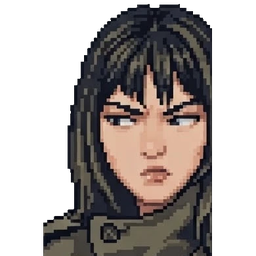
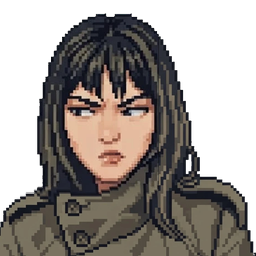
Лика: тема про рыцаря по смыслу владельца, новая тема после Илиа, без улыбок невпопад; лица настроений подогнаны под оригинал; напоминалка владельцу
Claude-Session: https://claude.ai/code/session_01NZaKJV7VXAQHZfGwN3MbH5

diff --git a/src/story/dialogues.js b/src/story/dialogues.js
@@ -124,7 +124,7 @@ export const SHOPS = {
     // Темы разговора: строки по очереди; knight: true — реплика Найта, mood — лицо Лики. Смысл — владельца, формулировки — черновик.
     talk: [
       { topic: 'Кто ты?', lines: [
-        { mood: 'happy', text: '[черновик] Лика. Странствующая торговка — и коллекционер, если хочешь красиво.' },
+        { text: '[черновик] Лика. Странствующая торговка — и коллекционер, если хочешь красиво.' },
         { mood: 'sly', text: '[черновик] Брошенные места, забытые вещи, интересные артефакты — вот моё. Кто-то копит золото, а я — истории.' },
       ] },
       { topic: 'Так ты мародёрка?', lines: [
@@ -135,7 +135,7 @@ export const SHOPS = {
       { topic: 'Об этом замке', lines: [
         { mood: 'serious', text: 'Старый заброшенный замок. Здесь никто не жил больше двухсот лет.' },
         { mood: 'sly', text: '[черновик] Ну, из живых. Неживых тут, пожалуй, побольше — скелеты прямо в очередь выстраиваются.' },
-        { mood: 'happy', text: 'Перекантоваться можно в деревушке неподалёку. А монстров в замке много.' },
+        { text: 'Перекантоваться можно в деревушке неподалёку. А монстров в замке много.' },
         { mood: 'sly', text: 'Хочешь узнать о них больше — купи у меня журнал. Я его, между прочим, кропотливо составляла.' },
       ] },
       { topic: 'О портале', lines: [
@@ -150,10 +150,19 @@ export const SHOPS = {
         { mood: 'sly', text: 'Это я слышала от рыцаря, который здесь бывал. Только выглядел он побогаче, и доспехи у него сияли поярче твоих...' },
         { mood: 'worried', text: '[черновик] Ой. Прости, я не имела в виду, что ты плохо выглядишь! Просто доспехи у тебя... повидавшие. Это даже солидно.' },
       ] },
+      // смысл владельца: если тот рыцарь победил колдуна и ушёл — Найт тоже сможет спокойно покинуть замок;
+      // Лика-то уйдёт когда угодно, а Найт — нет; извиняется: не хвастается, просто так вышло
       { topic: 'Что стало с тем рыцарем?', lines: [
         { mood: 'serious', text: 'Вероятно, он уже ушёл. Или погиб от рук этого мага.' },
-        { mood: 'sly', text: 'Если первое — значит, и я могу спокойно уйти из замка. Если второе — тебе не повезло, и следующий на очереди, видимо, ты. Если только не захочешь остаться здесь жить.' },
-        { mood: 'worried', text: '[черновик] Прости. Я не хотела смеяться над чужим горем. Я не это имела в виду.' },
+        { mood: 'serious', text: '[черновик] Если он победил колдуна и ушёл — значит, и ты сможешь спокойно покинуть замок. А если погиб… тогда следующий на очереди, видимо, ты.' },
+        { mood: 'sly', text: '[черновик] Я-то отсюда уйду, когда захочу. А вот ты — нет.' },
+        { mood: 'worried', text: '[черновик] Ой. Прости, я не хвастаюсь. Просто… так вышло.' },
+      ] },
+      // появляется после боя с Илиа (решение владельца)
+      { topic: 'Я встретил рыцаря с рапирой', need: 'done_ilia', lines: [
+        { knight: true, text: '[черновик] Внизу на меня напал рыцарь с рапирой. Сильный противник. Бросился первым — я даже не успел объяснить, что я человек.' },
+        { mood: 'surprised', text: '[черновик] Правда? Ты пережил битву с ним?' },
+        { mood: 'sly', text: '[черновик] Хм. Может, у тебя и правда есть шансы.' },
       ] },
       { topic: 'Скажи, как ты сюда попала', lines: [
         { knight: true, text: 'И всё-таки — как ты сюда попала?' },
@@ -167,7 +176,8 @@ export const SHOPS = {
     soon: '[черновик] Это пока не продаётся.',
     bye: '[черновик] Береги себя, рыцарь!',
     // выражение лица Лики (assets/portraits/lika-*.png): happy, sly, surprised, sulky, serious, worried, angry; без — обычное
-    moods: { hello: 'happy', item: 'sly', bought: 'happy', poor: 'sulky', soon: 'sly' },
+    // широкая улыбка (happy) — только на покупке: в остальном владелец просил без улыбок невпопад
+    moods: { hello: 'sly', bought: 'happy', poor: 'sulky', soon: 'sly' },
   },
 };
 

diff --git a/src/main.js b/src/main.js
@@ -1842,7 +1842,7 @@ function nextShopLine() {
   const line = sh.queue.shift();
   if (!line) return;
   const text = typeof line === 'string' ? line : line.text;
-  if (line.knight) shopSay(`Найт: ${text}`, sh.mood);
+  if (line.knight) shopSay(`Найт: ${text}`, line.mood);  // Лика слушает с обычным лицом
   else shopSay(text, line.mood);
   renderShop();
 }
@@ -1883,7 +1883,8 @@ function shopOptions() {
   if (sh.view === 'talk') {
     // идёт разговор по теме — только «Дальше», пока не кончатся реплики
     if (sh.queue?.length) return [{ label: 'Дальше ▸', go: nextShopLine }];
-    return [...d.talk.map(t => ({ label: t.topic, go: () => { sh.queue = t.lines.slice(); nextShopLine(); } })), back];
+    // need — тема появляется после события (флаг), например после боя с Илиа
+    return [...d.talk.filter(t => !t.need || game.flags[t.need]).map(t => ({ label: t.topic, go: () => { sh.queue = t.lines.slice(); nextShopLine(); } })), back];
   }
   return [
     { label: 'Купить', go: () => shopView('buy') },

diff --git a/tools/lika_moods.py b/tools/lika_moods.py
@@ -1,0 +1,57 @@
+# Подогнать настроения Лики под оригинал: размер и положение лица, тон кожи.
+# Исходные настроения (кадры с листа) лежат в git-истории — до v0.32; этот скрипт уже применён, повторно на готовые файлы не запускать.
+import sys, numpy as np
+from PIL import Image
+P = '/home/user/knight-night/assets/portraits/'
+OUT = sys.argv[1]  # куда сохранить; исходники настроений — из git-истории (до v0.32), оригинал — lika.png
+def skin_mask(a):
+    r, g, b, al = [a[..., i].astype(int) for i in range(4)]
+    return (al > 200) & (r > 140) & (r > g + 12) & (g > b) & (r - b > 40)
+def bbox(m):
+    ys, xs = np.nonzero(m)
+    # отсечь выбросы: 2-й и 98-й перцентили
+    return np.percentile(xs, 2), np.percentile(xs, 98), np.percentile(ys, 2), np.percentile(ys, 98)
+orig = np.array(Image.open(P + 'lika.png').convert('RGBA'))
+om = skin_mask(orig)
+ox0, ox1, oy0, oy1 = bbox(om)
+oskin = orig[om][:, :3].astype(float)
+print('orig skin box', ox0, ox1, oy0, oy1)
+for n in ['happy', 'sly', 'surprised', 'sulky', 'serious', 'worried', 'angry']:
+    im = Image.open(P + f'lika-{n}.png').convert('RGBA')
+    a = np.array(im)
+    m = skin_mask(a)
+    x0, x1, y0, y1 = bbox(m)
+    k = (ox1 - ox0) / (x1 - x0)
+    W = round(im.width * k); H = round(im.height * k)
+    sm = im.resize((W, H), Image.NEAREST if k > 1 else Image.LANCZOS)
+    # цвет кожи: сдвиг среднего и разброса к оригиналу (только на пикселях кожи)
+    b = np.array(sm).astype(float)
+    mk = skin_mask(b.astype(np.uint8))
+    s = b[mk][:, :3]
+    if len(s):
+        adj = (s - s.mean(0)) / (s.std(0) + 1e-6) * oskin.std(0) + oskin.mean(0)
+        b[mk, :3] = np.clip(s * 0.35 + adj * 0.65, 0, 255)
+    sm = Image.fromarray(b.astype(np.uint8))
+    # совместить центр лица по x и верх лица по y
+    cx = (x0 + x1) / 2 * k; ty = y0 * k
+    dx = round((ox0 + ox1) / 2 - cx); dy = round(oy0 - ty)
+    canvas = Image.new('RGBA', (256, 256), (0, 0, 0, 0))
+    canvas.alpha_composite(sm, (dx, dy)) if dx >= 0 and dy >= 0 else canvas.paste(sm, (dx, dy), sm)
+    # голова из настроения поверх оригинала: плечи, пальто и боковые пряди — всегда оригинальные
+    c = np.array(canvas).astype(float)
+    left, right = dx, dx + W
+    fade = np.ones((256, 256))
+    for x in range(256):
+        d = min(x - left, right - 1 - x)
+        fade[:, x] *= np.clip(d / 14, 0, 1)
+    neck = int(oy1) + 4   # низ лица в оригинале; ниже — пальто оригинала
+    for y in range(256):
+        fade[y, :] *= np.clip((neck + 16 - y) / 16, 0, 1)
+    al = c[..., 3] / 255 * fade
+    base = orig.astype(float)
+    out = base.copy()
+    out[..., :3] = base[..., :3] * (1 - al[..., None]) + c[..., :3] * al[..., None]
+    out[..., 3] = np.maximum(base[..., 3], c[..., 3] * fade)
+    c = out
+    Image.fromarray(c.astype(np.uint8)).save(f'{OUT}/lika-{n}.png')
+    print(n, 'k=%.2f' % k, dx, dy)

diff --git a/docs/owner-todo.md b/docs/owner-todo.md
@@ -1,0 +1,30 @@
+# Напоминания владельцу
+
+Что ждёт тебя — по мере того, как появляется. Вычёркивай или пиши «сделано».
+
+## Тексты
+
+- **Разговоры Лики** (`src/story/dialogues.js`, `SHOPS.lika.talk`). Большинство — твои, но часть строк — мои черновики (`[черновик]`). Перечитать особенно:
+  - «Что стало с тем рыцарем?» — переписано по твоему смыслу (v0.32): если тот рыцарь победил колдуна и ушёл — Найт тоже сможет уйти; «я-то уйду, а ты — нет», извиняется: не хвастается, так вышло.
+  - «Я встретил рыцаря с рапирой» — новая тема, появляется после боя с Илиа.
+  - Приветствие, «спасибо», «не хватает монет», описания товаров.
+- **Мысли Найта при осмотре** (E у портретов, камина, ключей и т. д., `look_*`) — все черновики.
+- **Уход Алкимы, атаман, командир, балкон** — черновики.
+
+## Картинки
+
+- **Алкима** — картинка до меня не дошла. Пришли файлом отдельным сообщением, без текста. Сделаю: вырежу фон, волосы — чёрные, в диалоги.
+- **Лица Лики.** В v0.32 я подогнал все настроения под оригинал: тот же кадр, плечи и пальто, размер головы, тон кожи — меняется только лицо. Но черты в нижнем ряду (надутая, серьёзная, тревожная, злая) всё равно отличаются: лицо длиннее, глаза крупнее. Чтобы было точно, перегенерируй по одному настроению с оригиналом как образцом:
+
+  > Use the attached portrait as the exact reference. Same girl: same round soft face, same narrow dark grey eyes, same skin tone and freckles, same black hair with bangs, same olive coat with high buttoned collar. Same framing: head and shoulders, the head the same size and in the same place. Same pixel art style, plain light grey background. Change ONLY the facial expression to: **worried** (затем: serious, sulky pouting, angry, surprised, sly smirk, laughing). One image, square.
+
+  Присылай по одной — подставлю.
+
+## Вопросы по лору (ответь, когда будет время)
+
+1. Найт — кто он и почему закрывает порталы?
+2. Какие «дела» у Алкимы в замке? Встретим её снова?
+3. Илиа после поражения — вернётся? Союзник или соперник?
+4. Лика на втором и третьем этажах — переезжает или остаётся внизу?
+5. Серебряная чаша и Золотой череп — коллекция или нужны для прохода?
+6. Второй этаж — что там (часовня, библиотека учеников мага, погреб мародёров, сокровищница)? Свой босс?
